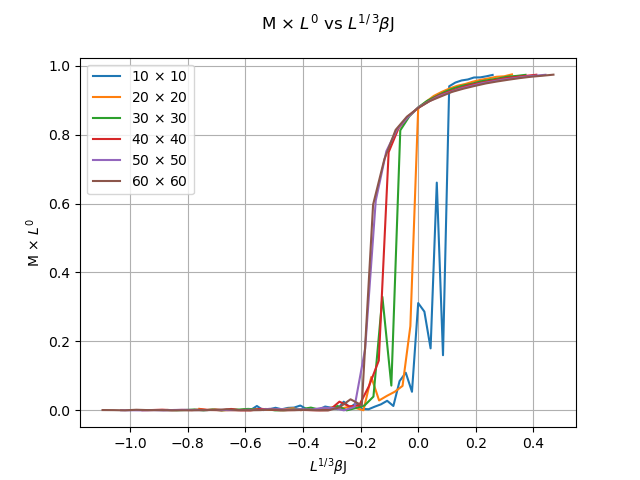
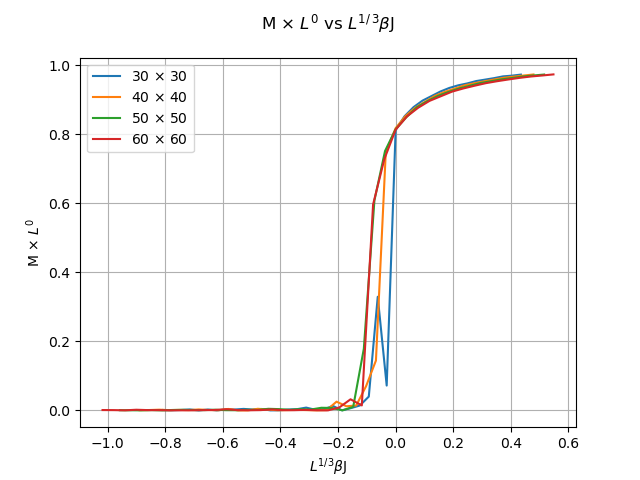
done with numerics, visualization for later

diff --git a/4-Ising/my_code/magnetisation_analysis.py b/4-Ising/my_code/magnetisation_analysis.py
@@ -29,12 +29,12 @@ import matplotlib.pyplot as plt
 
 for v in range(1, 12) :
     plt.clf()
-    for i in range(10, 61, 10) :
-        data = np.loadtxt("data_L_{}.txt".format(i))
-        plt.plot((i**(1/v))*(data[:,0] - 0.48), abs(data[:,2]), label=r"{} $\times$ {}".format(i, i))
+    for i in range(30, 61, 10) :
+        data = np.loadtxt("data_L_modified_{}.txt".format(i))
+        plt.plot((i**(1/v))*(data[:,0] - 0.46), abs(data[:,2]), label=r"{} $\times$ {}".format(i, i))
     plt.legend()
     plt.grid(True)
     plt.title(r"M $\times$ $L^0$ vs $L^{1/\, %d}\beta$J" % v + "\n")
     plt.xlabel(r"$L^{1/%d}\beta$J" % v)
     plt.ylabel(r"M $\times$ $L^0$")
-    plt.savefig("critical_exponent/critical_exponent_500_{p:.2f}.png".format(p=v))
+    plt.savefig("critical_exponent/critical_exponent_2000_{p:.2f}.png".format(p=v))
